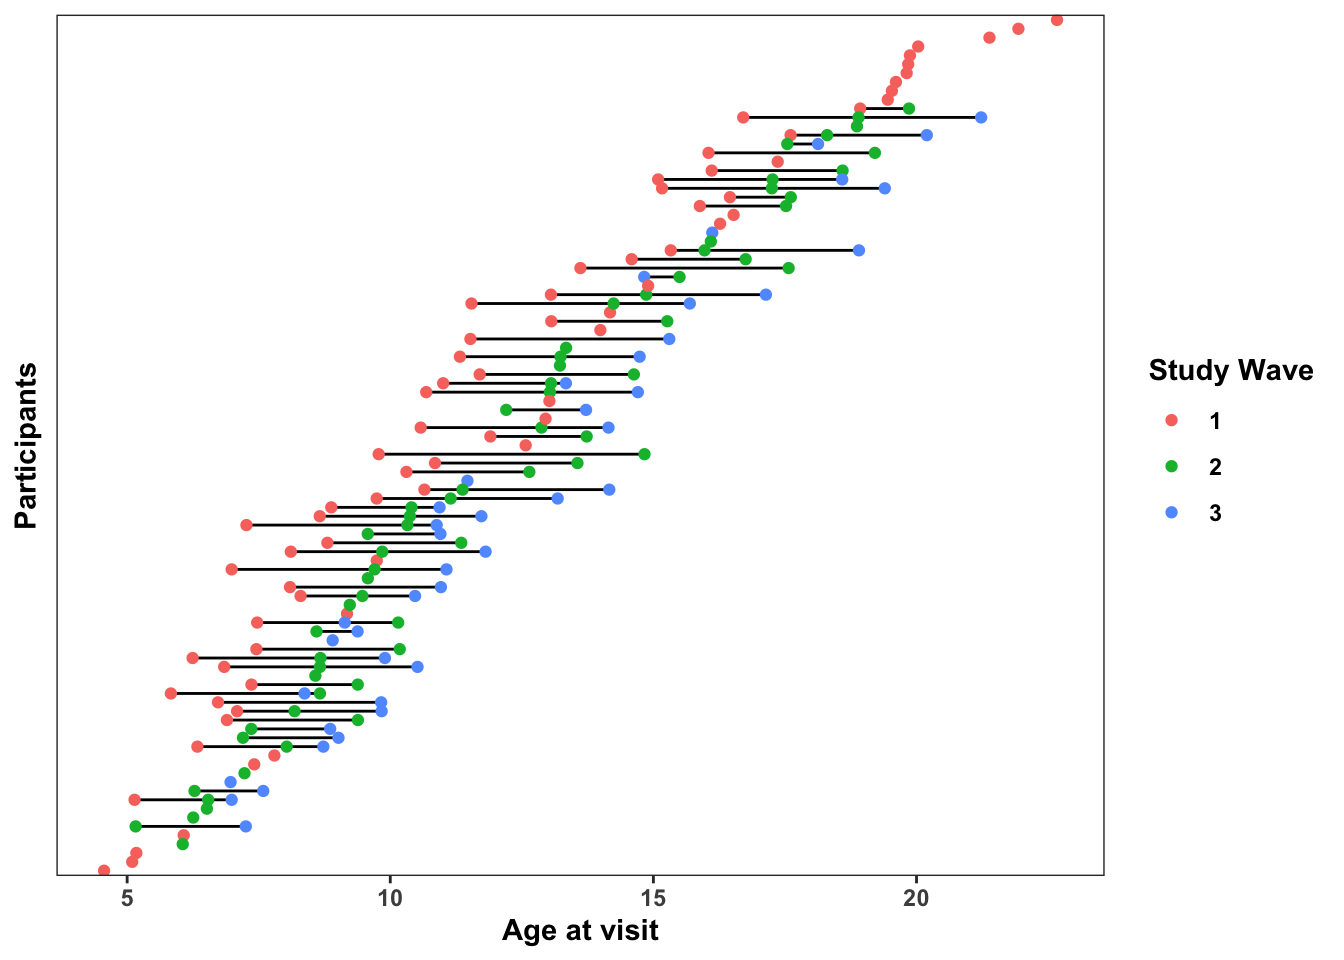
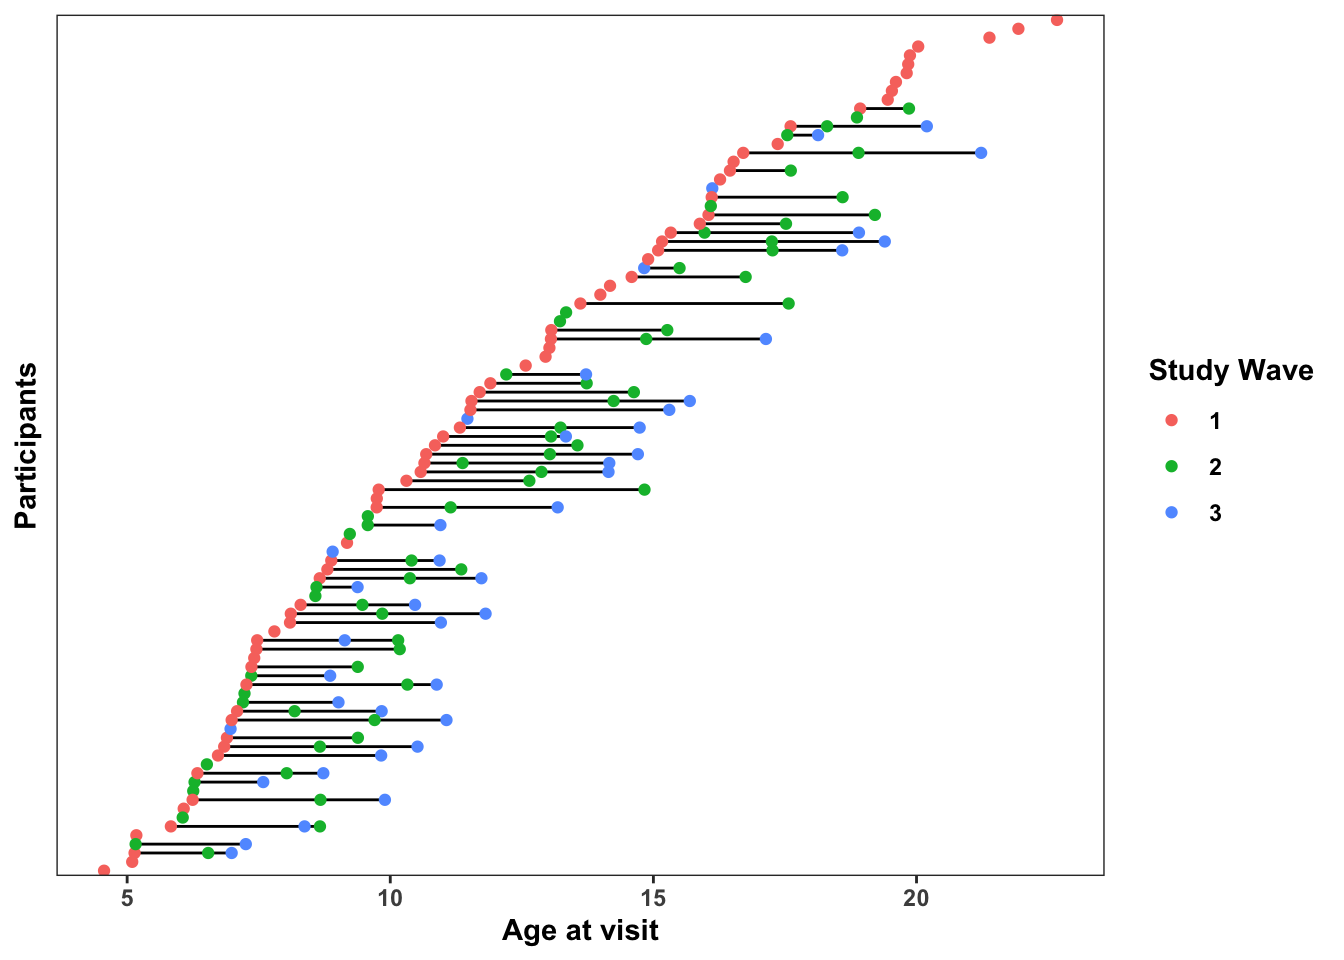
improve design plot

Changed region(s): [[0.0938, 0.0938, 0.75, 0.9062]]

diff --git a/docs/into_the_bayesian_multiverse.html b/docs/into_the_bayesian_multiverse.html
@@ -492,18 +492,20 @@ library(cowplot)</code></pre>
 ## 6     7     1  5.83     1  1.18        1           NA           -0.817</code></pre>
 <div id="a.-accelerated-longitudinal-study-design" class="section level2">
 <h2>1A. Accelerated Longitudinal Study Design</h2>
-<p>Here’s a plot displaying when each (fake) participant came in for visits. The x-axis indicates the age of the participants at each visit, and participants (on the y-axis) are ordered by the age at their first study visit. Horizontal lines connecting dots indicate the multiple study visits over time for the same participant (although some participants only completed 1 visit)</p>
+<p>Here’s a plot displaying when each (fake) participant came in for visits. The x-axis indicates the age of the participants at each visit, and participants (on the y-axis) are ordered by the age at their first study visit (<code>min_age</code>). Horizontal lines connecting dots indicate the multiple study visits over time for the same participant (although some participants only completed 1 visit)</p>
 <pre class="r"><code>designPlot = dplyr::mutate(fake_data, wave = as.factor(wave)) %&gt;%
-  ggplot(aes(x = age, y = forcats::fct_reorder(as.factor(id), age))) +
-  geom_line(aes(group = id)) + 
-  geom_point(aes(color = wave)) +
-  theme_bw() + theme(axis.text.y = element_blank(), panel.grid.major = element_blank()) +
-  labs(y = &#39;Participants&#39;, x = &#39;Age at visit&#39;) +
-  guides(color = guide_legend(title = &#39;Study Wave&#39;)) +
-  theme(text = element_text(face = &#39;bold&#39;),
-        axis.ticks.y=element_blank(),
-        panel.grid.major = element_blank(),
-        panel.grid.minor = element_blank())
+  dplyr::group_by(id) %&gt;%
+  dplyr::mutate(min_age = min(age)) %&gt;%
+  ggplot(aes(x = age, y = forcats::fct_reorder(as.factor(id), min_age))) +
+    geom_line(aes(group = id)) + 
+    geom_point(aes(color = wave)) +
+    theme_bw() + theme(axis.text.y = element_blank(), panel.grid.major = element_blank()) +
+    labs(y = &#39;Participants&#39;, x = &#39;Age at visit&#39;) +
+    guides(color = guide_legend(title = &#39;Study Wave&#39;)) +
+    theme(text = element_text(face = &#39;bold&#39;),
+          axis.ticks.y=element_blank(),
+          panel.grid.major = element_blank(),
+          panel.grid.minor = element_blank())
 
 designPlot</code></pre>
 <p><img src="into_the_bayesian_multiverse_files/figure-html/unnamed-chunk-3-1.png" width="672" /></p>
@@ -1165,22 +1167,22 @@ loo_cv_grid$elpd_loo_se = as.numeric(loo_unnest$loo_cv[,2][row.names(loo_unnest$
 ## [1] stats     graphics  grDevices utils     datasets  methods   base     
 ## 
 ## other attached packages:
-##  [1] broom.mixed_0.2.4  lme4_1.1-21        Matrix_1.2-18      cowplot_1.0.0     
-##  [5] brms_2.12.0        Rcpp_1.0.7         specr_0.2.2        forcats_0.4.0     
-##  [9] stringr_1.4.0      dplyr_1.0.3        purrr_0.3.3        readr_1.3.1       
-## [13] tidyr_1.0.2        tibble_3.1.2       ggplot2_3.3.3.9000 tidyverse_1.3.0   
+##  [1] cowplot_1.0.0      brms_2.12.0        Rcpp_1.0.7         specr_0.2.2       
+##  [5] forcats_0.4.0      stringr_1.4.0      dplyr_1.0.3        purrr_0.3.3       
+##  [9] readr_1.3.1        tidyr_1.0.2        tibble_3.1.2       ggplot2_3.3.3.9000
+## [13] tidyverse_1.3.0   
 ## 
 ## loaded via a namespace (and not attached):
 ##   [1] readxl_1.3.1         backports_1.1.5      plyr_1.8.5          
-##   [4] igraph_1.2.4.2       TMB_1.7.16           splines_3.6.2       
-##   [7] crosstalk_1.0.0      rstantools_2.0.0     inline_0.3.15       
-##  [10] digest_0.6.27        htmltools_0.4.0      viridis_0.5.1       
-##  [13] rsconnect_0.8.16     fansi_0.5.0          magrittr_2.0.1      
-##  [16] graphlayouts_0.7.1   modelr_0.1.5         RcppParallel_4.4.4  
-##  [19] matrixStats_0.55.0   xts_0.12-0           prettyunits_1.1.1   
-##  [22] colorspace_2.0-1     rvest_0.3.5          ggrepel_0.8.1       
-##  [25] haven_2.2.0          xfun_0.19            callr_3.4.2         
-##  [28] crayon_1.4.1         jsonlite_1.6.1       zoo_1.8-7           
+##   [4] igraph_1.2.4.2       splines_3.6.2        crosstalk_1.0.0     
+##   [7] rstantools_2.0.0     inline_0.3.15        digest_0.6.27       
+##  [10] htmltools_0.4.0      viridis_0.5.1        rsconnect_0.8.16    
+##  [13] fansi_0.5.0          magrittr_2.0.1       graphlayouts_0.7.1  
+##  [16] modelr_0.1.5         RcppParallel_4.4.4   matrixStats_0.55.0  
+##  [19] xts_0.12-0           prettyunits_1.1.1    colorspace_2.0-1    
+##  [22] rvest_0.3.5          ggrepel_0.8.1        haven_2.2.0         
+##  [25] xfun_0.19            callr_3.4.2          crayon_1.4.1        
+##  [28] jsonlite_1.6.1       lme4_1.1-21          zoo_1.8-7           
 ##  [31] glue_1.4.2           polyclip_1.10-0      gtable_0.3.0        
 ##  [34] V8_3.0.1             pkgbuild_1.0.6       rstan_2.21.1        
 ##  [37] abind_1.4-5          scales_1.1.1         mvtnorm_1.1-0       
@@ -1201,16 +1203,17 @@ loo_cv_grid$elpd_loo_se = as.numeric(loo_unnest$loo_cv[,2][row.names(loo_unnest$
 ##  [82] shinythemes_1.2.0    rstudioapi_0.10      curl_4.3            
 ##  [85] reprex_0.3.0         tweenr_1.0.1         stringi_1.4.6       
 ##  [88] ps_1.3.2             Brobdingnag_1.2-6    lattice_0.20-38     
-##  [91] nloptr_1.2.1         markdown_1.1         shinyjs_1.1         
-##  [94] vctrs_0.3.8          pillar_1.6.1         lifecycle_1.0.0     
-##  [97] bridgesampling_1.0-0 httpuv_1.5.2         R6_2.5.0            
-## [100] promises_1.1.0       gridExtra_2.3        codetools_0.2-16    
-## [103] boot_1.3-23          colourpicker_1.0     MASS_7.3-51.4       
-## [106] gtools_3.8.1         assertthat_0.2.1     withr_2.4.2         
-## [109] shinystan_2.5.0      parallel_3.6.2       hms_0.5.3           
-## [112] grid_3.6.2           coda_0.19-3          minqa_1.2.4         
-## [115] rmarkdown_2.1        ggforce_0.3.1        shiny_1.4.0         
-## [118] lubridate_1.7.4      base64enc_0.1-3      dygraphs_1.1.1.6</code></pre>
+##  [91] Matrix_1.2-18        nloptr_1.2.1         markdown_1.1        
+##  [94] shinyjs_1.1          vctrs_0.3.8          pillar_1.6.1        
+##  [97] lifecycle_1.0.0      bridgesampling_1.0-0 httpuv_1.5.2        
+## [100] R6_2.5.0             promises_1.1.0       gridExtra_2.3       
+## [103] codetools_0.2-16     boot_1.3-23          colourpicker_1.0    
+## [106] MASS_7.3-51.4        gtools_3.8.1         assertthat_0.2.1    
+## [109] withr_2.4.2          shinystan_2.5.0      parallel_3.6.2      
+## [112] hms_0.5.3            grid_3.6.2           coda_0.19-3         
+## [115] minqa_1.2.4          rmarkdown_2.1        ggforce_0.3.1       
+## [118] shiny_1.4.0          lubridate_1.7.4      base64enc_0.1-3     
+## [121] dygraphs_1.1.1.6</code></pre>
 </div>
 </div>
 
